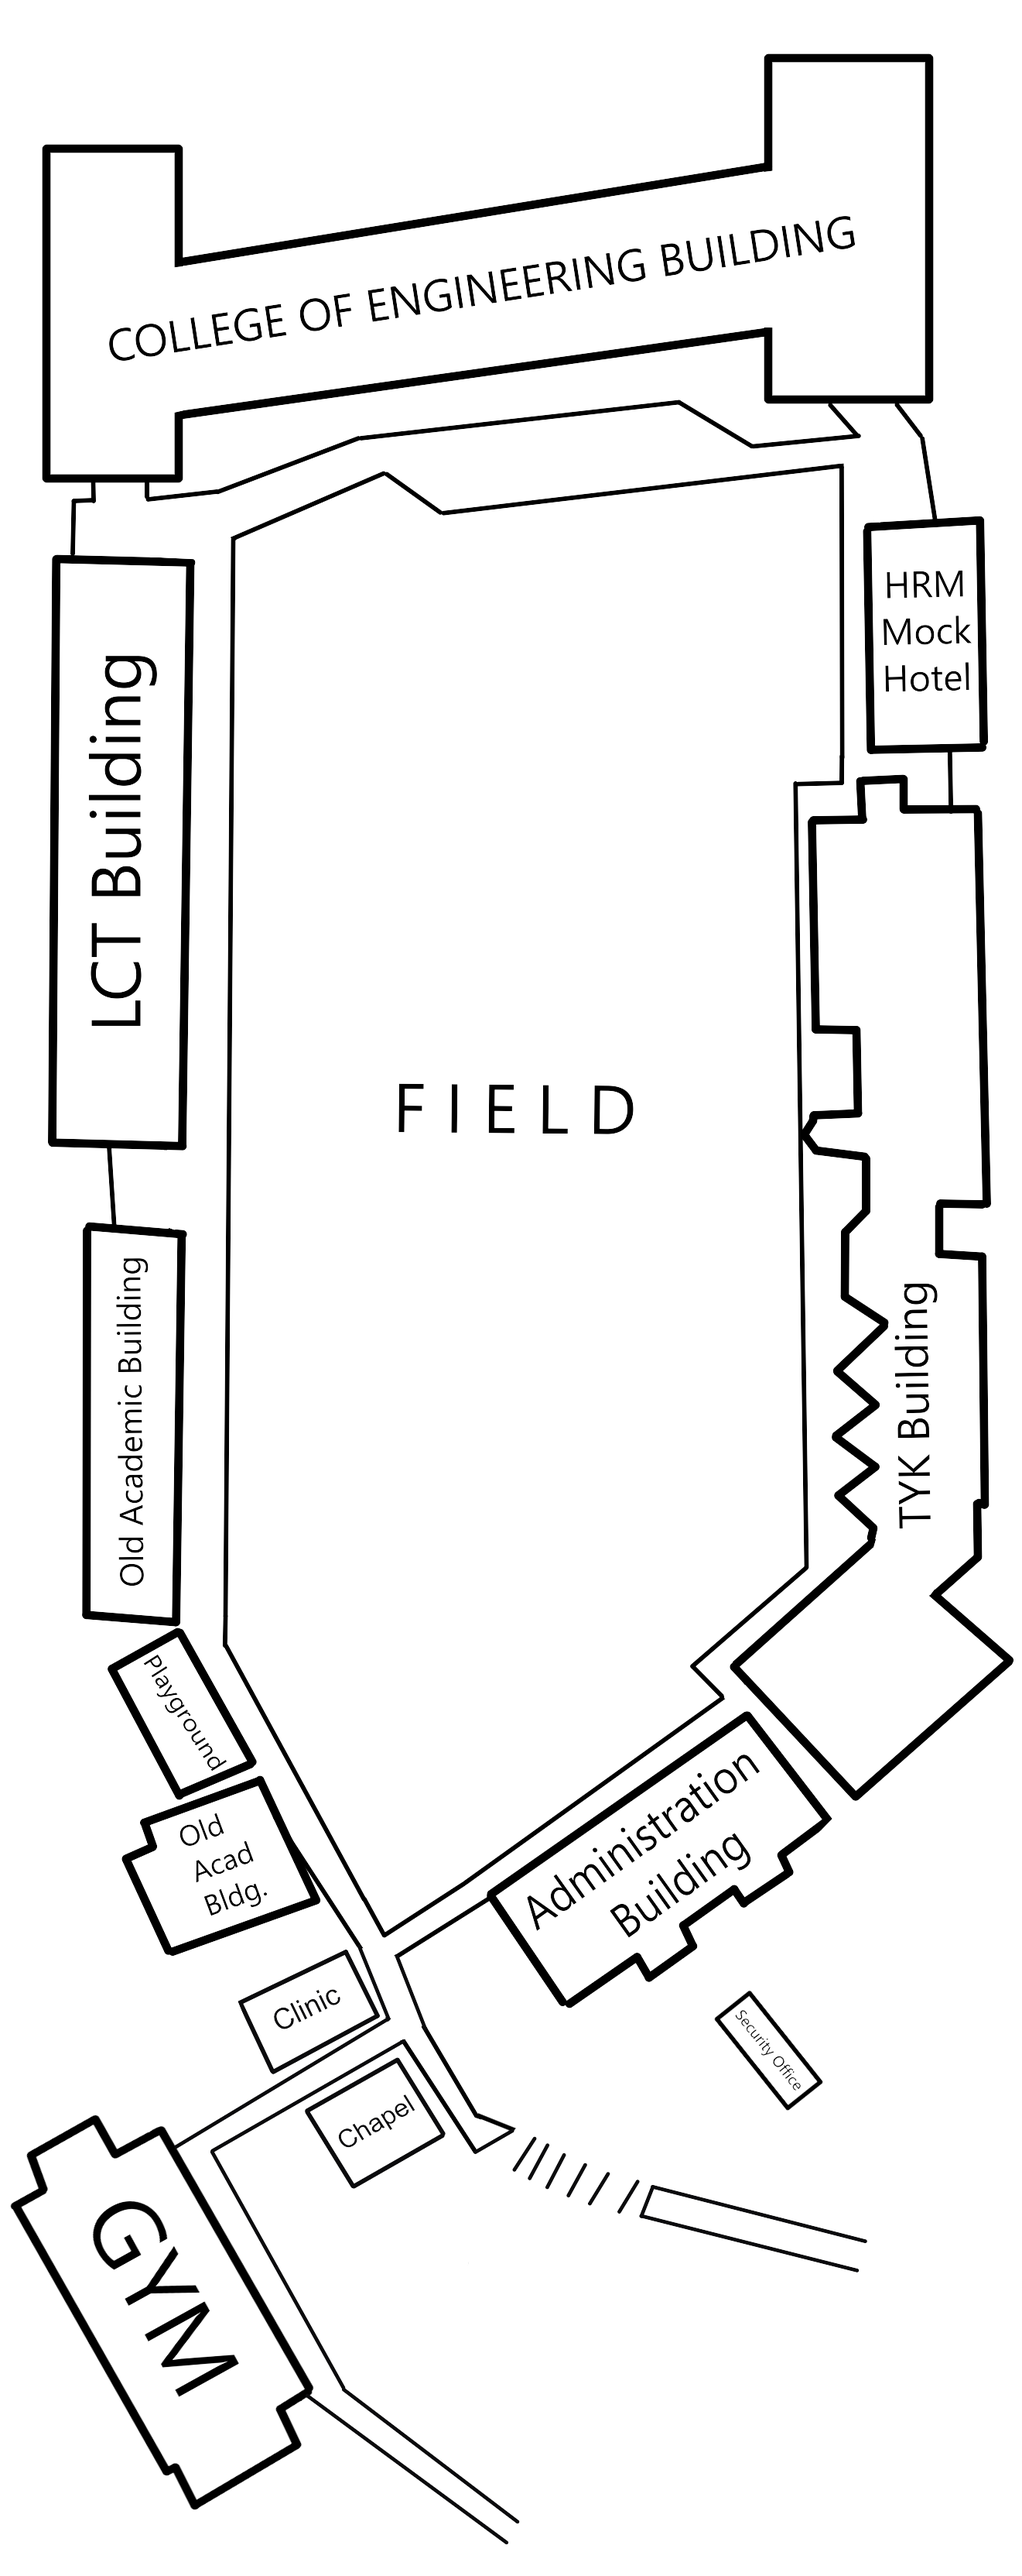
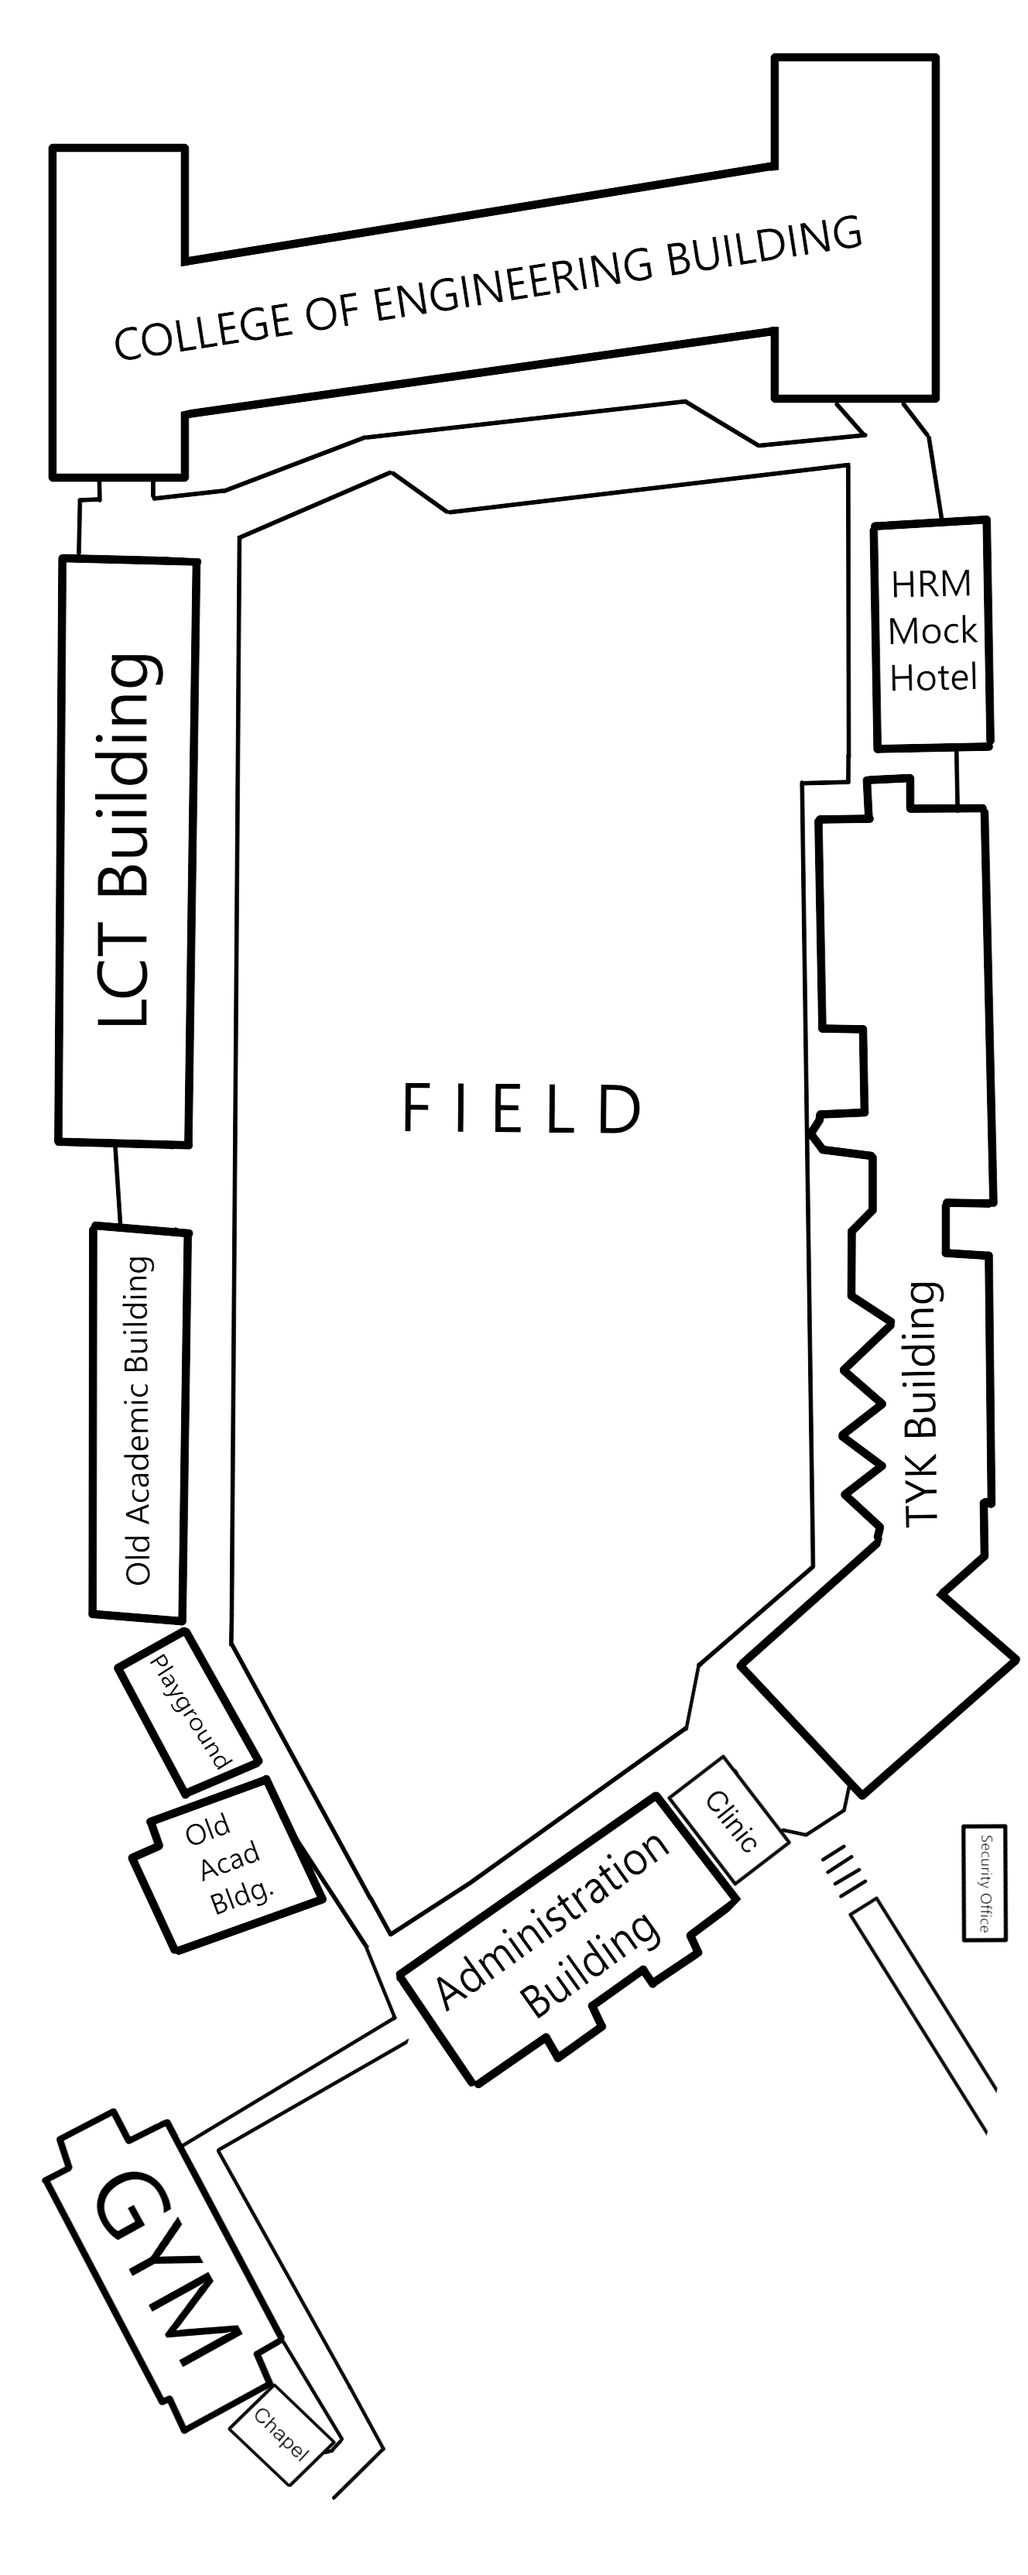
UE Campus Rework
Now reworked to its most accurate representation of the Caloocan Campus.

diff --git a/app/screens/MapData.js b/app/screens/MapData.js
@@ -1,8 +1,8 @@
 //dropdown labels
 export const dropdowndata = [
   //ENGINEERING BUILDING 1ST FLOOR------------------------------
-  { key: '1', value: 'NEAREST MALE CR'}, { key: '2', value: 'NEAREST FEMALE CR'}, 
-  { key: '3', value: 'EN 101' }, { key: '4', value: 'EN 102' },
+  // { key: '1', value: 'NEAREST MALE CR'}, { key: '2', value: 'NEAREST FEMALE CR'}, 
+  // { key: '3', value: 'EN 101' }, { key: '4', value: 'EN 102' },
   // { key: '5', value: 'EN 103' }, { key: '6', value: 'EN 104' }, { key: '7', value: 'EN 111B'}, { key: '8', value: 'EN 112'}, { key: '9', value: 'EN 113'},
   // { key: '10', value: 'EN 117'}, { key: '11', value: 'EN 118'}, { key: '12', value: 'ME Lab'}, { key: '13', value: 'Structural Material & Testing Lab' },
   // { key: '14', value: 'Machine Fabrication Room'}, { key: '15', value: 'Soil Mechanics Laboratory' }, { key: '16', value: 'Faculty Briefing & Training Room' }, { key: '17', value: 'Fluid Mechanics & Hydraulics Room'},
@@ -38,31 +38,29 @@ export const dropdowndata = [
   // { key: '122', value: 'EN D6' }, { key: '123', value: 'AEES' },
   
   // // //UNIVERSITY OF THE EAST - GENERAL
-  { key: '122', value: 'MAIN ENTRANCE' }, 
+  // { key: '122', value: 'MAIN ENTRANCE' }, 
   // { key: '123', value: 'Security Office' }, { key: '124', value: 'GYM' }, { key: '125', value: 'Old Academic Building' },
   // { key: '126', value: 'Playground' }, { key: '127', value: 'LCT Building' }, { key: '128', value: 'EN Building (Right Wing)' }, { key: '129', value: 'EN Building (Left Wing)' },
   // { key: '130', value: 'HRM Mock Hotel' }, { key: '131', value: 'TYK Building' }, { key: '132', value: 'Administration Building' },
   // { key: '133', value: 'SECOND ENTRANCE' }, { key: '134', value: 'Clinic' }, { key: '135', value: 'Chapel' },
   
   // //TYK BUILDING 1ST FLOOR------------------------------
-  { key: '', value: 'CBA Faculty' }, 
+  // { key: '', value: 'CBA Faculty' }, 
   // { key: '', value: 'Alumni Marketing' }, 
   // { key: '', value: 'CBA Office' }, 
   // { key: '', value: 'Department Chair Office (TYK - 1ST)' }, 
   // { key: '', value: 'TYK Canteen' }, 
-  // { key: '', value: 'EF17' }, 
-  // { key: '', value: 'TYK E1' }, 
 
   // //TYK BUILDING 2ND FLOOR------------------------------
-  { key: '133', value: 'TYK 201' },
+  // { key: '133', value: 'TYK 201' },
   //  { key: '134', value: 'TYK 203' }, { key: '135', value: 'TYK 205' }, { key: '136', value: 'TYK 204' }, { key: '137', value: 'TYK 202' },
   // { key: '138', value: 'TYK 200' }, { key: '139', value: 'TYK 210' }, { key: '140', value: 'TYK 211' }, { key: '141', value: 'TYK 212' }, { key: '142', value: 'TYK 213' },
   // { key: '143', value: 'TYK 214' }, { key: '144', value: 'TYK 215' }, { key: '145', value: 'TYK 215' }, { key: '146', value: 'TYK 216' }, { key: '147', value: 'TYK 217' },
   // { key: '148', value: 'TYK 218' }, { key: '149', value: 'TYK 219' }, 
-  { key: '150', value: 'TYK 220' },
+  // { key: '150', value: 'TYK 220' },
 
   //TYK BUILDING 3RD FLOOR------------------------------
-  { key: '', value: 'TYK 300' },
+  // { key: '', value: 'TYK 300' },
   // { key: '', value: 'TYK 301' },
   // { key: '', value: 'TYK 302' },
   // { key: '', value: 'TYK 303' },
@@ -75,14 +73,14 @@ export const dropdowndata = [
   // { key: '', value: 'College of Arts and Science' },
   // { key: '', value: 'Multimedia Room 3A' },
   // { key: '', value: 'Multimedia Room 3B' },
-  { key: '', value: 'CAS Studio' },
+  // { key: '', value: 'CAS Studio' },
   // { key: '', value: 'CAS Research and Consultation Room' },
   // { key: '', value: 'TYK 309' },
   // { key: '', value: 'TYK Speech Laboratory Room 1' },
   // { key: '', value: 'TYK Speech Laboratory Room 2' },
 
   //TYK BUILDING 4TH FLOOR------------------------------
-  { key: '', value: 'TYK 400' },
+  // { key: '', value: 'TYK 400' },
   // { key: '', value: 'TYK 401' },
   // { key: '', value: 'TYK 402' },
   // { key: '', value: 'TYK 403' },
@@ -101,7 +99,7 @@ export const dropdowndata = [
   // { key: '', value: 'TYK 415' },
 
   //TYK BUILDING 5TH FLOOR------------------------------
-  { key: '', value: 'TYK Reception' },
+  // { key: '', value: 'TYK Reception' },
   // { key: '', value: 'CFA Faculty Room' },
   // { key: '', value: 'TYK 501' },
   // { key: '', value: 'TYK 502' },
@@ -111,7 +109,7 @@ export const dropdowndata = [
   // { key: '', value: 'Art Gallery' },
 
   //TYK BUILDING 6TH FLOOR-----------------------------
-  { key: '', value: 'TYK Library' },
+  // { key: '', value: 'TYK Library' },
   // { key: '', value: 'Animation Studio' },
   // { key: '', value: 'Art & Design Open Studio' },
   // { key: '', value: 'Video Editing Room' },
@@ -119,7 +117,7 @@ export const dropdowndata = [
   
 
   //TYK BUILDING 7TH FLOOR-----------------------------
-  { key: '', value: 'TYK 700' },
+  // { key: '', value: 'TYK 700' },
   // { key: '', value: 'TYK 701' },
   // { key: '', value: 'TYK 702' },
   // { key: '', value: 'TYK 703' },
@@ -137,7 +135,7 @@ export const dropdowndata = [
   //TYK BUILDING 8TH FLOOR :)---------------------------
   // { key: '', value: 'TYK 800' },
   // { key: '', value: 'TYK 801' },
-  { key: '', value: 'TYK 802' },
+  // { key: '', value: 'TYK 802' },
   // { key: '', value: 'TYK 803' },
   // { key: '', value: 'TYK 804' },
   // { key: '', value: 'TYK 805' },
@@ -158,7 +156,7 @@ export const dropdowndata = [
 
 
   //TYK BUILDING 9TH FLOOR :)---------------------------
-  { key: '', value: 'TYK 900' },
+  // { key: '', value: 'TYK 900' },
   // { key: '', value: 'TYK 901' },
   // { key: '', value: 'TYK 902' },
   // { key: '', value: 'TYK 903' },
@@ -181,7 +179,7 @@ export const dropdowndata = [
 
 
 //TYK BUILDING 10TH FLOOR :)---------------------------
-  { key: '', value: 'TYK 1000' },
+  // { key: '', value: 'TYK 1000' },
   // { key: '', value: 'TYK 1001' },
   // { key: '', value: 'TYK 1002' },
   // { key: '', value: 'TYK 1003' },
@@ -197,8 +195,8 @@ export const dropdowndata = [
   // { key: '', value: 'TYK 1013' },
   // { key: '', value: 'TYK 1014' },
 
-  { key: '', value: 'ELEVATOR R' },
-  { key: '', value: 'ELEVATOR L' },
+  // { key: '', value: 'ELEVATOR R' },
+  // { key: '', value: 'ELEVATOR L' },
   
 //TYK BUILDING 11TH FLOOR :)--------------------------
 
@@ -451,25 +449,25 @@ export const buildingCoordinates = {
   'Z41': { x: 0.72, y: 0.08, floor: 4 },
 
 //UNIVERSITY OF THE EAST - GENERAL
-  'MAIN ENTRANCE': { x: 0.80, y: 0.92, floor: 5 },
-  'Security Office': { x: 0.72, y: 0.84, floor: 5 },
+  'MAIN ENTRANCE': { x: 0.91, y: 0.87, floor: 5 },
+  'Security Office': { x: 0.89, y: 0.77, floor: 5 },
   'GYM': { x: 0.64, y: 0.91, floor: 5 },
   'Old Academic Building': { x: 0.27, y: 0.75, floor: 5 },
-  'Playground': { x: 0.20, y: 0.67, floor: 5 },
+  'Playground': { x: 0.22, y: 0.68, floor: 5 },
   'LCT Building': { x: 0.17, y: 0.35, floor: 5 },
   'EN Building (Right Wing)': { x: 0.16, y: 0.17, floor: 5 },
   'EN Building (Left Wing)': { x: 0.80, y: 0.14, floor: 5 },
-  'HRM Mock Hotel': { x: 0.80, y: 0.23, floor: 5 },
+  'HRM Mock Hotel': { x: 0.82, y: 0.23, floor: 5 },
   'TYK Building': { x: 0.80, y: 0.50, floor: 5 },
   'Administration Building': { x: 0.61, y: 0.76, floor: 5 },
-  'SECOND ENTRANCE': { x: 0.39, y: 0.99, floor: 5 },
-  'Clinic': { x: 0.35, y: 0.81, floor: 5 },
-  'Chapel': { x: 0.39, y: 0.87, floor: 5 },
+  'SECOND ENTRANCE': { x: 0.37, y: 1, floor: 5 },
+  'Clinic': { x: 0.70, y: 0.74, floor: 5 },
+  'Chapel': { x: 0.30, y: 0.99, floor: 5 },
   'GYM': { x: 0.24, y: 0.92, floor: 5 },
 
-  'A5': { x: 0.63, y: 0.90, floor: 5 },
-  'B5': { x: 0.53, y: 0.88, floor: 5 },
-  'C5': { x: 0.46, y: 0.86, floor: 5 },  
+  'A5': { x: 0.80, y: 0.78, floor: 5 },
+  'B5': { x: 0.74, y: 0.73, floor: 5 },
+
   'D5': { x: 0.41, y: 0.83, floor: 5 },
   'D51': { x: 0.36, y: 0.84, floor: 5 },
   'D52': { x: 0.24, y: 0.88, floor: 5 },
@@ -1110,23 +1108,22 @@ export const graph = {
   'HRM Mock Hotel': { 'M5': 1 },
   'TYK Building': { 'O5': 5, 'Q5': 5, 'TYK E1': 1 },
   'Administration Building': { 'U5': 1 },
-  'Clinic': { 'E5': 1 },
+  'Clinic': { 'B5': 1 },
   'EN - EL': { 'M55': 1, 'T11': 1 },
   'EN - ER': { 'W55': 1, 'X1': 1 },
   'SECOND ENTRANCE': { 'D54': 2,},
-  'Chapel': { 'D51': 1,},
+  'Chapel': { 'D54': 1,},
   'GYM': { 'D53': 1,},
 
   'A5': { 'MAIN ENTRANCE': 1, 'B5': 2, 'Security Office': 1 },
-  'B5': { 'A5': 2, 'C5': 2, 'Security Office': 1 },
-  'C5': { 'B5': 2, 'D5': 2, },
+  'B5': { 'A5': 2, 'T5': 2, 'Security Office': 1, 'Clinic': 1 },
   'D5': { 'C5': 2, 'E5': 2, 'D51': 2 },
-  'D51': { 'D5': 2, 'D52': 2, 'Chapel': 1 },
+  'D51': { 'D5': 2, 'D52': 2,  },
   'D52': { 'D51': 2, 'D53': 2 },
   'D53': { 'D52': 2, 'D54': 2, 'GYM': 1 },
-  'D54': { 'D53': 2, 'SECOND ENTRANCE': 2 },
+  'D54': { 'D53': 2, 'SECOND ENTRANCE': 2, 'Chapel': 1 },
 
-  'E5': { 'D5': 2, 'F5': 2, 'U5': 2, 'Clinic': 1 },
+  'E5': { 'D5': 2, 'F5': 2, 'U5': 1, },
   'F5': { 'E5': 2, 'G5': 2, 'Old Academic Building': 1 },
   'G5': { 'F5': 2, 'H5': 2, 'Playground': 1 },
   'H5': { 'G5': 2, 'I5': 2 },
@@ -1145,8 +1142,8 @@ export const graph = {
   'Q5': { 'P5': 2, 'R5': 2, 'TYK Building': 5 },
   'R5': { 'Q5': 2, 'S5': 2 },
   'S5': { 'R5': 2, 'T5': 2 },
-  'T5': { 'S5': 2, 'U5': 2 },
-  'U5': { 'T5': 2, 'E5': 2, 'Administration Building': 1 },
+  'T5': { 'S5': 2, 'U5': 2,  'B5': 2 },
+  'U5': { 'T5': 2, 'E5': 2, 'Administration Building': 1, },
 
 //TYK ELEVATOR----------------------------
   'ELEVATOR L': { 'XD17': 4, 'XH6': 6, 'XH19':8, 'XG7': 10, 'XH8': 12, 'XB18': 14, 'XD9': 16, 'XG10': 18, 'X11E': 20, 'XH12': 22 },
